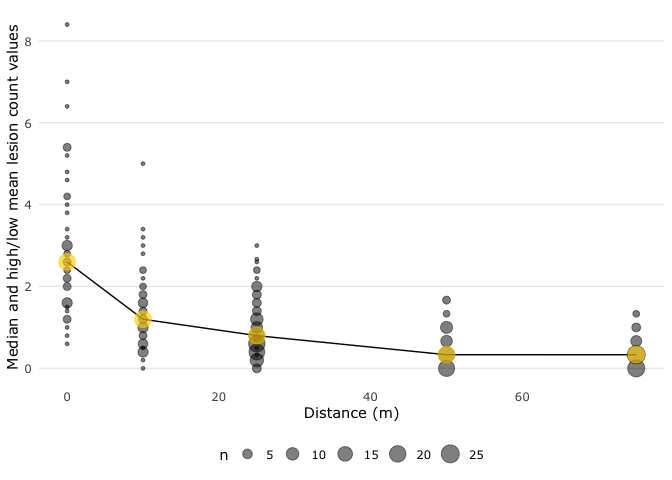
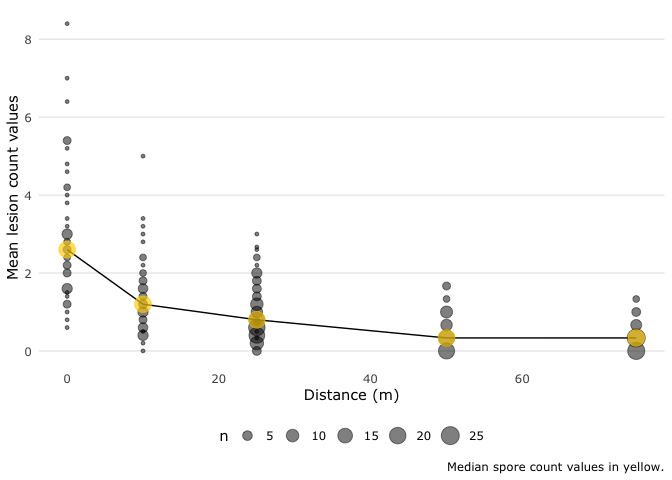
Update graph of dispersal

diff --git a/GAM.md b/GAM.md
@@ -66,8 +66,9 @@ ggplot(dat, aes(x = dist, y = mean_count_pot)) +
       alpha = 0.65
    ) +
    theme_usq() +
-   ylab("Median and high/low mean lesion count values") +
-   xlab("Distance (m)")
+   ylab("Mean lesion count values") +
+   xlab("Distance (m)") +
+   labs(caption = "Median spore count values in yellow.")
 ```
 
 ![](GAM_files/figure-gfm/visualise_data-1.png)<!-- -->
@@ -97,9 +98,6 @@ ggplot(dat, aes(x = dist, y = mean_count_pot)) +
     ## 
     ## R-sq.(adj) =  0.482   Deviance explained = 48.8%
     ## GCV = 0.76522  Scale est. = 0.75394   n = 334
-
-The `k` value has to be set to 5, default is 10. Else the model will not
-fit due to lack of degrees of freedom.
 
 ### mod2 - s(Distance) plus Precipitation
 
